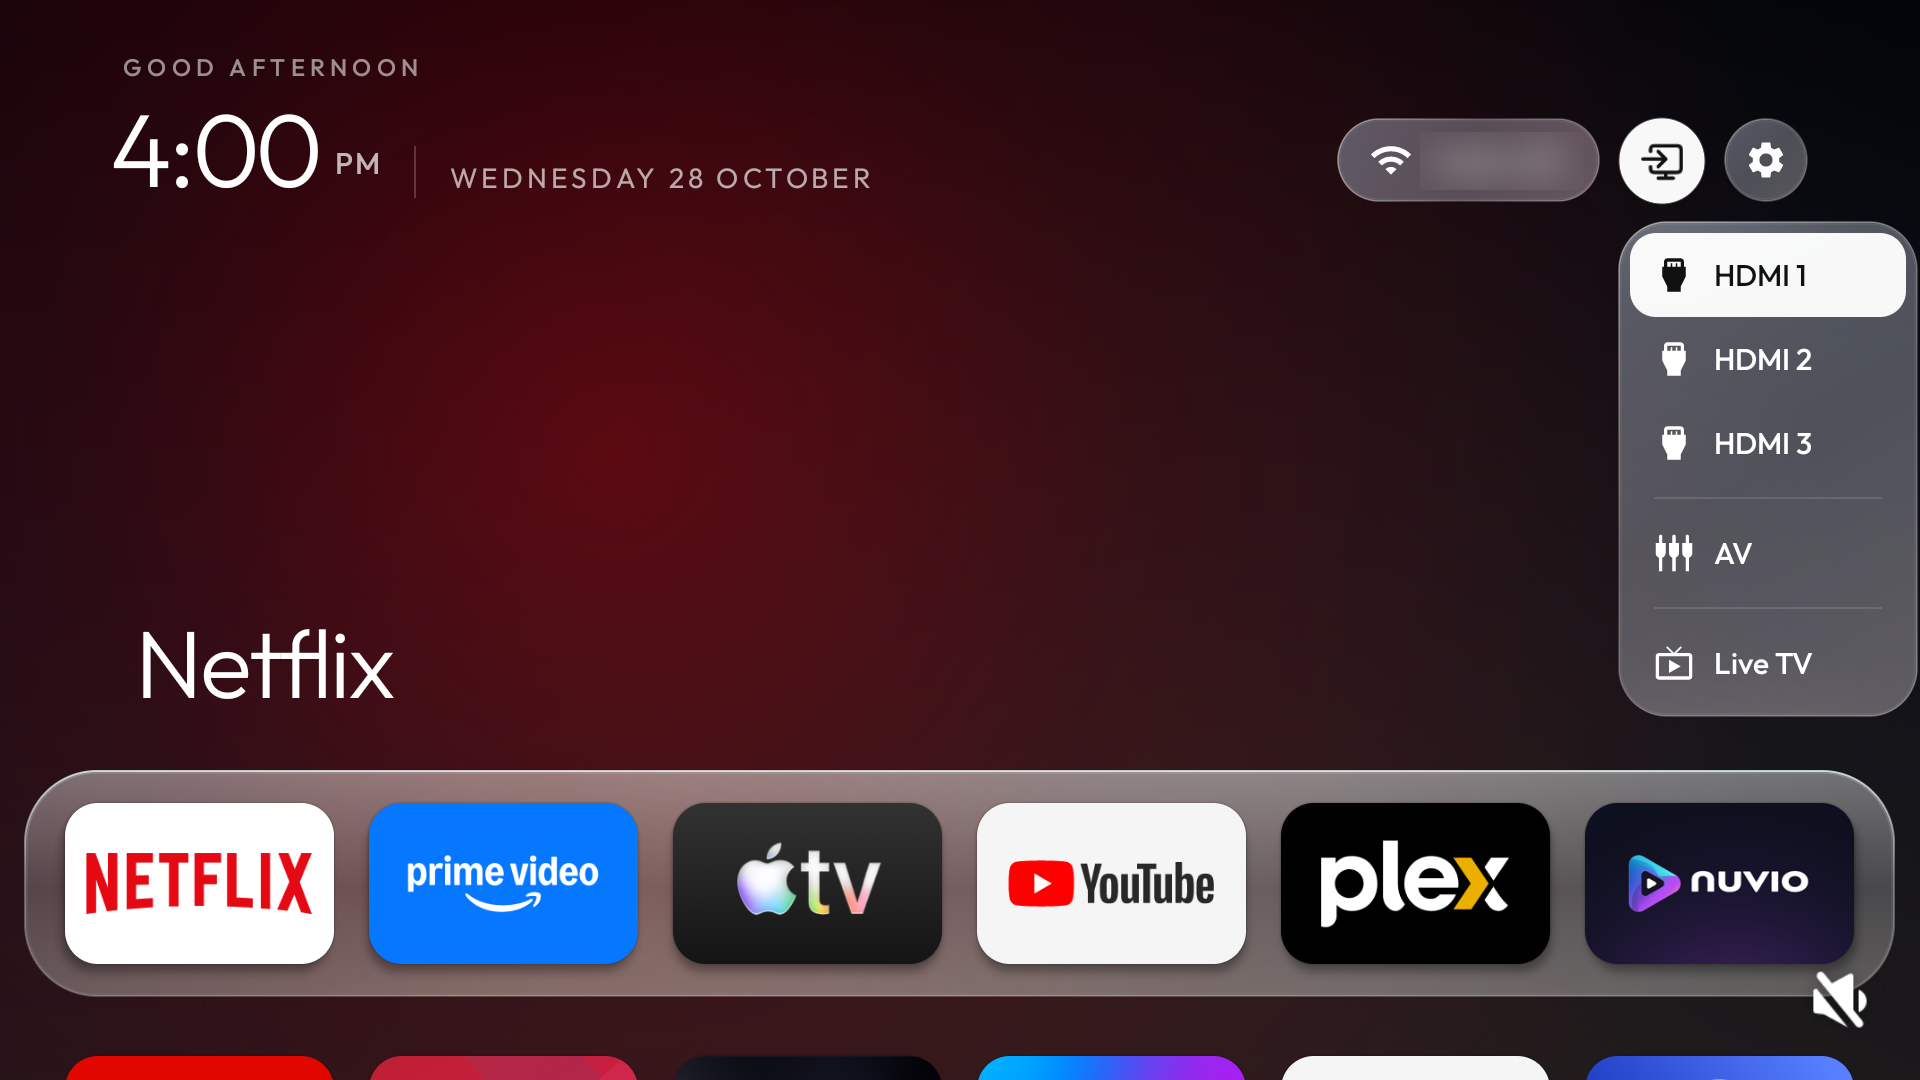
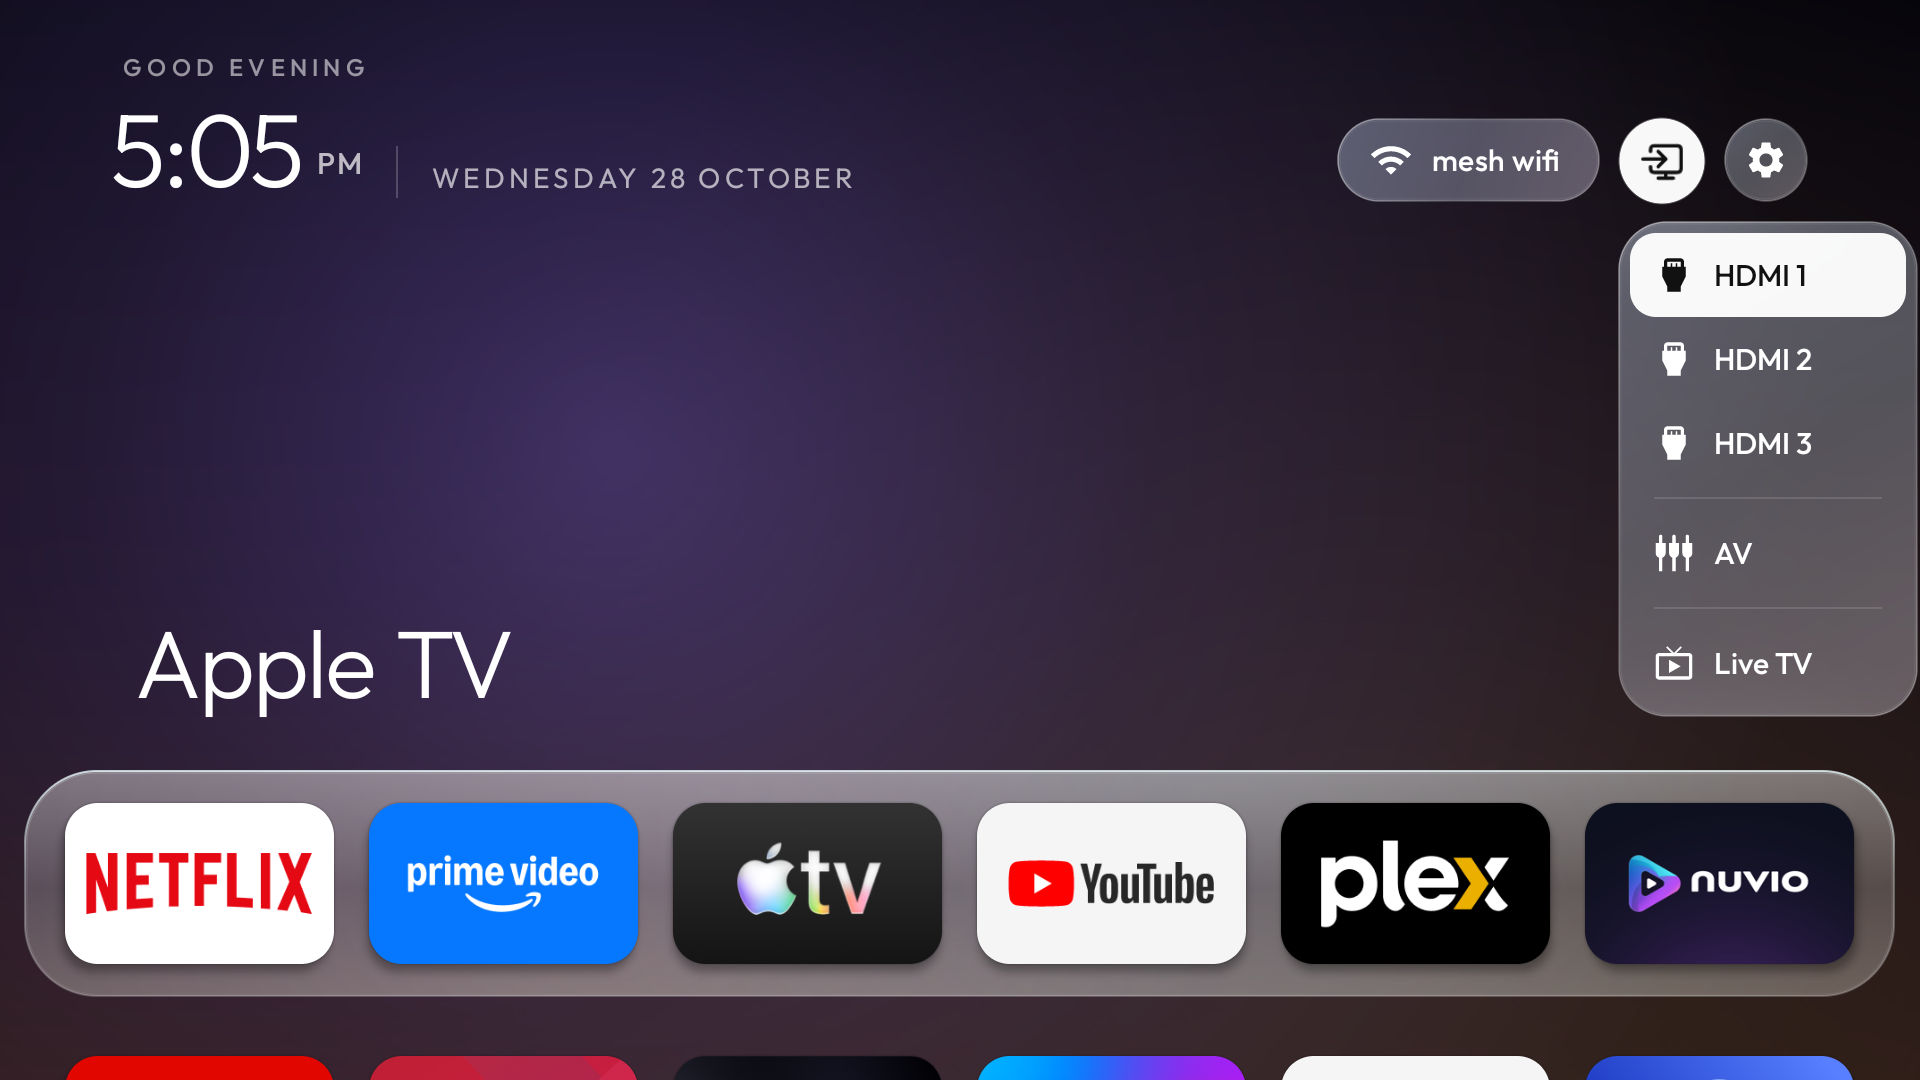
README: refresh TV screenshots with Apple TV selected
Retake all six interface views from the current TV and keep the Wi-Fi name visible as requested. Use the existing Apple TV selection for the Home image and update its caption.

diff --git a/README.md b/README.md
@@ -11,11 +11,11 @@
   <a href="#build-and-install">Build &amp; install</a>
 </p>
 
-![Home with a floating glass dock, large clock, and compact Wi-Fi, Inputs and Settings controls](docs/screenshots/readme/home.png)
+![Home with Apple TV selected in the glass dock, a large clock, and Wi-Fi, Inputs and Settings controls](docs/screenshots/readme/home.png)
 
 A home screen built around the apps you actually use. Pin your favorites to the dock, put the rest in folders, and move between everything with your TV remote. Rounded artwork, soft borders, translucent surfaces and clear focus states carry through the whole interface.
 
-**These are captures from the current launcher on a physical Xiaomi TV running Android 14, taken on 28 October 2026.** The Wi-Fi name is obscured in the public images. The app layout, menus and settings are shown as they were on the TV.
+**These are captures from the current launcher on a physical Xiaomi TV running Android 14, taken on 28 October 2026.** The app layout, menus and settings are shown as they were on the TV, with Apple TV selected in the Home view.
 
 ## Explore the interface
 
